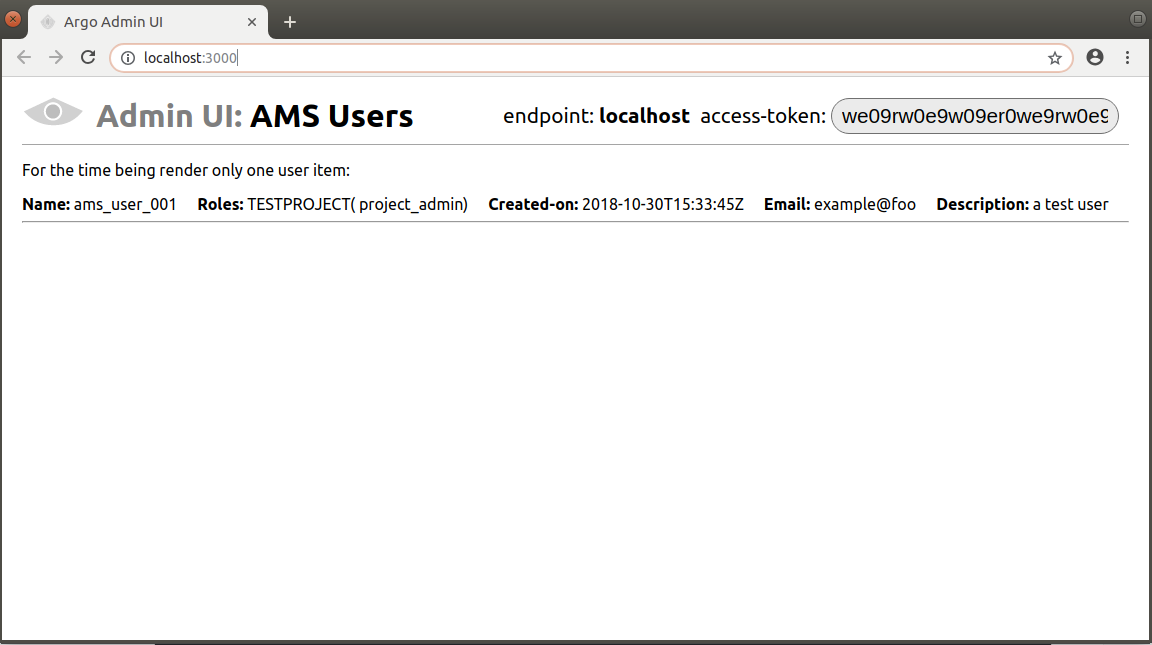
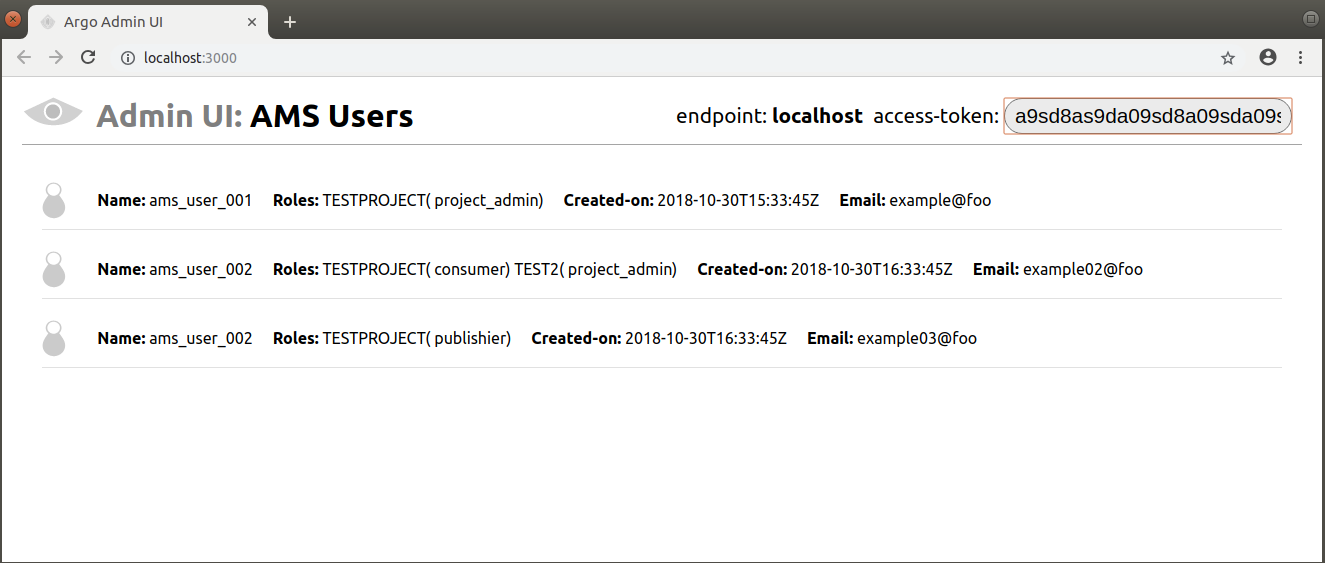
ARGO-1458 Implement user list component

diff --git a/src/UserManager.js b/src/UserManager.js
@@ -1,7 +1,7 @@
 import React from 'react'
 import config from './config'
 import argologo from './argologo.svg'
-import User from './User'
+import UserList from './UserList'
 
 // UserManager implements the top level component that will handle retrieval and dipslay of user data
 class UserManager extends React.Component {
@@ -53,14 +53,22 @@ class UserManager extends React.Component {
     render() {
 
         // empty user placeholder
-        let userData = {'name':'ams_user_001', 
+        let userData = [{'name':'ams_user_001', 
                         'projects':[{'project':'TESTPROJECT','roles':['project_admin']}], 
                         'created_on': '2018-10-30T15:33:45Z', 
-                        'email':'example@foo',
-                        'description':'a test user'};
+                        'email':'example@foo'},
+                        {'name':'ams_user_002', 
+                        'projects':[{'project':'TESTPROJECT','roles':['consumer']},{'project':'TEST2','roles':['project_admin']}], 
+                        'created_on': '2018-10-30T16:33:45Z', 
+                        'email':'example02@foo'},
+                        {'name':'ams_user_002', 
+                        'projects':[{'project':'TESTPROJECT','roles':['publishier']}], 
+                        'created_on': '2018-10-30T16:33:45Z', 
+                        'email':'example03@foo'}
+                    ];
         // if retrieved user data from ams user the first user
         if (this.state.users.length > 0) {
-            userData = this.state.users[0]
+            userData = this.state.users;
         }
 
         return <div>
@@ -71,11 +79,7 @@ class UserManager extends React.Component {
         <span className="label">access-token: </span> <input className="round" id="token" onKeyPress={evt => this.handleTokenChange(evt)}/>
         </div>
         </header>
-        <p>For the time being render only one user item:</p>
-        <ul>
-          <User item={userData}/>
-          <hr/>
-        </ul>
+         <UserList item={userData}/>
         </div>
     }
 }

diff --git a/src/User.js b/src/User.js
@@ -1,4 +1,5 @@
 import React from 'react';
+import userIcon from './user.svg'
 
 class User extends React.Component{
 
@@ -18,11 +19,11 @@ class User extends React.Component{
 
 
         return <li>
+            <img src={userIcon} alt="user" />
             Name: <span>{this.props.item.name}</span>  
             Roles:<span className="roleList">{prStr}</span> 
             Created-on: <span>{this.props.item.created_on}</span>
             Email: <span>{this.props.item.email}</span>
-            Description: <span>{this.props.item.description}</span>
             </li>
     }
 }

diff --git a/src/UserList.js b/src/UserList.js
@@ -1,0 +1,19 @@
+import React from 'react';
+import User from './User'
+
+class UserList extends React.Component {
+
+    render(){
+        
+        let userComps = [];
+        let count=0;
+       
+        for (let user of this.props.item ) {
+            userComps.push(<User key={count} item={user}/>)
+            count++;
+        }
+    return <ul>{userComps}</ul>
+    }
+}
+
+export default UserList

diff --git a/src/App.css b/src/App.css
@@ -9,6 +9,15 @@ ul {
 
 li {
   font-weight: bold;
+  padding:20px 0px 20px 0px;
+  margin: 0px 20px;
+  border-bottom:rgb(226, 226, 226) 1px solid;
+}
+
+li img{
+  height:40px;
+  margin-right:30px;
+  margin-bottom:-15px;
 }
 
 li span {
